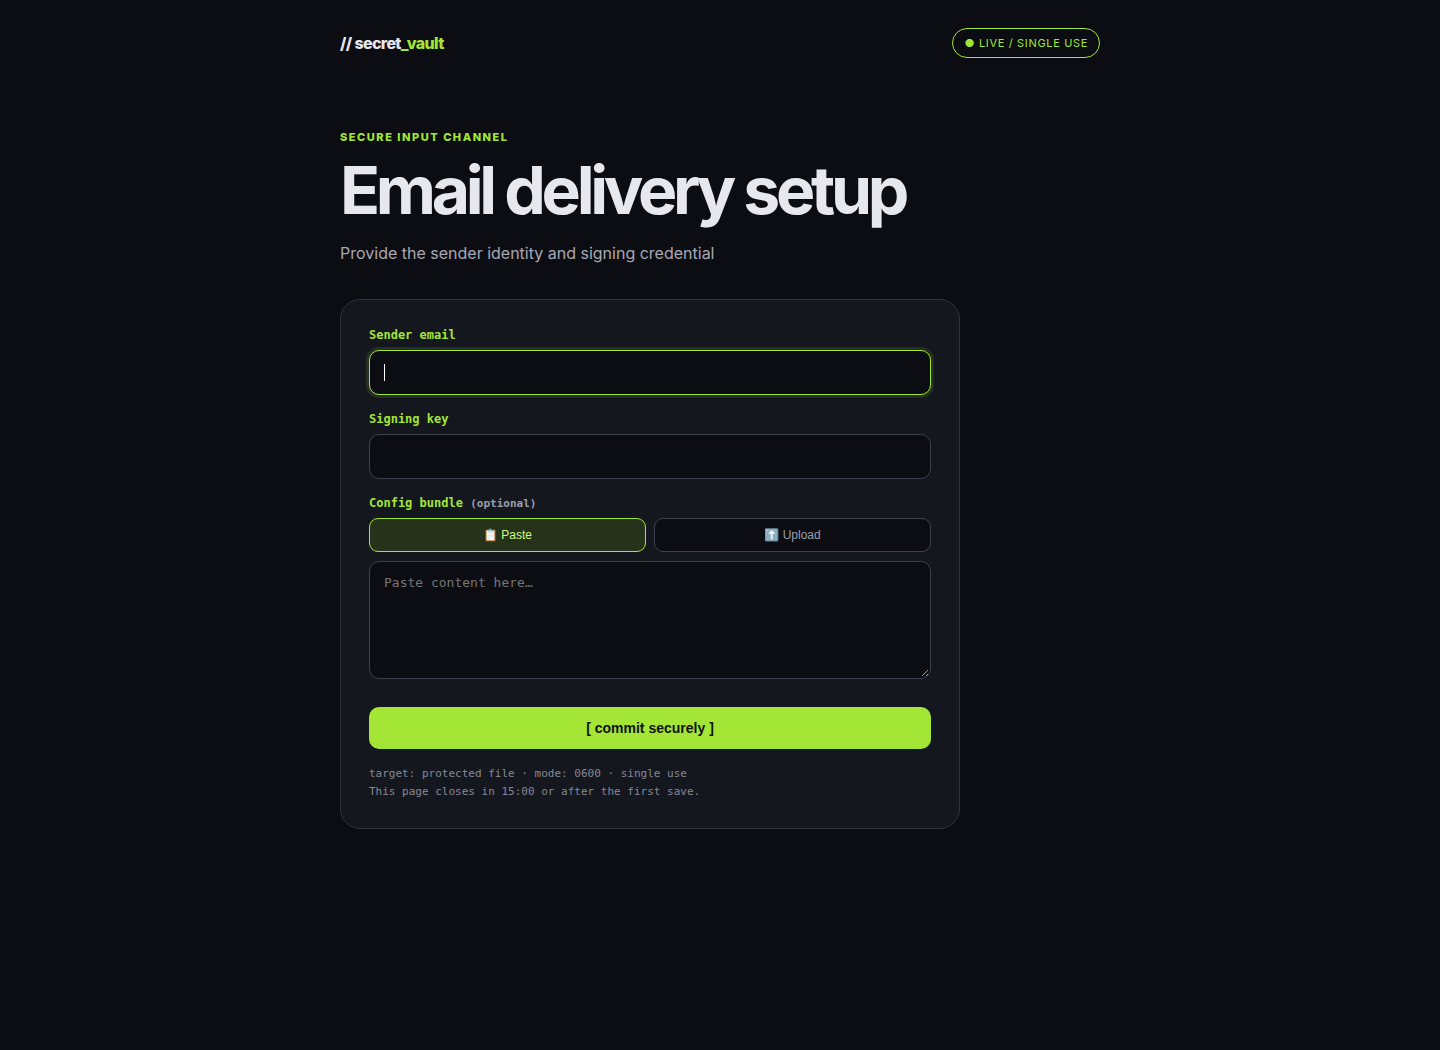
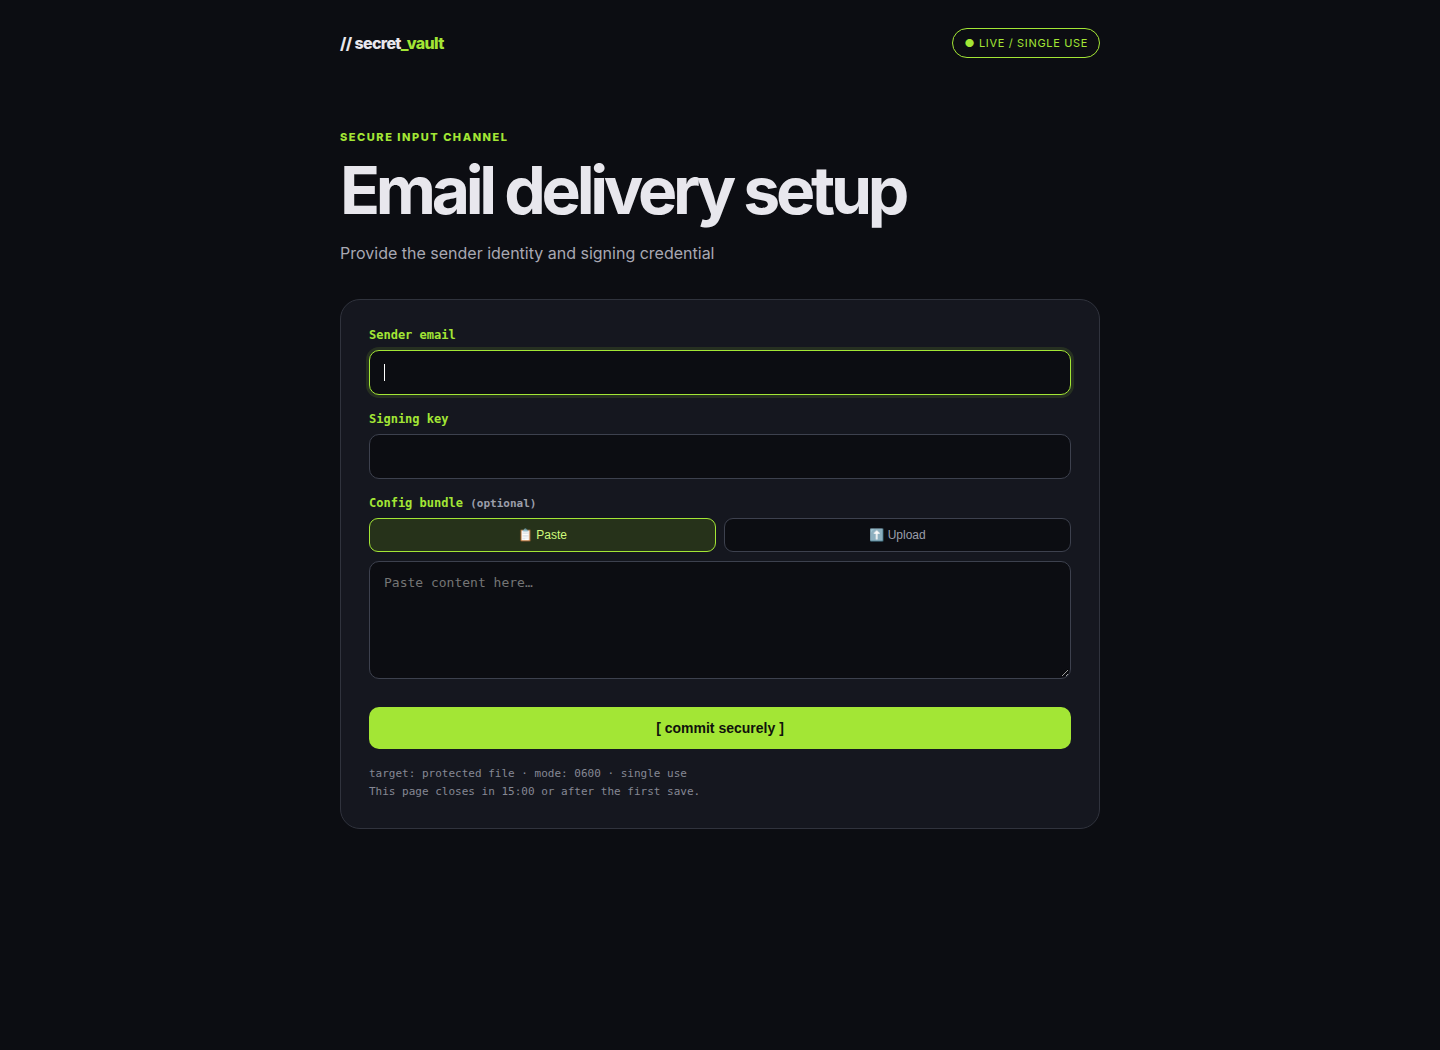
release: v1.1.2 — desktop-width card, desktop demo, new preview card
- form card now spans the header column on desktop (was 620px inside a 760px
  shell, leaving a lopsided gap on the right)
- re-record the demo at 1100x720 desktop and replace the still screenshot with a
  1440x1050 desktop capture; README embeds the GIF at 760px
- link-preview card rebuilt from the desktop still; drop the now-unused 2x GIF
- bump version to 1.1.2

diff --git a/scripts/make_social_preview.py b/scripts/make_social_preview.py
@@ -24,9 +24,7 @@ LIME = (163, 230, 53)
 INTER = "/usr/share/fonts/opentype/inter/"
 MONO = "/usr/share/fonts/truetype/dejavu/DejaVuSansMono.ttf"
 
-shot = Image.open("docs/screenshots/demo@2x.gif")
-shot.seek(14)  # a frame with the form filled in
-shot = shot.convert("RGB")
+shot = Image.open("docs/screenshots/terminal-vault.png").convert("RGB")
 
 # trim page background precisely: keeps only rows/columns that carry content
 bg_probe = shot.getpixel((2, 2))
@@ -74,14 +72,17 @@ d.text((x, H - 68), "python stdlib · MIT · linux / macOS", font=f_small, fill=
 # screenshot on the right, cropped to the form area
 target_h = H - 112
 scale = target_h / shot.height
-shot_r = shot.resize((int(shot.width * scale), target_h), Image.LANCZOS)
+max_w = W - 620
+if shot.width * scale > max_w:
+    scale = max_w / shot.width
+shot_r = shot.resize((int(shot.width * scale), int(shot.height * scale)), Image.LANCZOS)
 card_x = W - shot_r.width - 56
-card_y = (H - target_h) // 2
+card_y = (H - shot_r.height) // 2
 
 # subtle card frame behind the screenshot
 pad = 10
 d.rounded_rectangle(
-    [card_x - pad, card_y - pad, card_x + shot_r.width + pad, card_y + target_h + pad],
+    [card_x - pad, card_y - pad, card_x + shot_r.width + pad, card_y + shot_r.height + pad],
     radius=18, fill=CARD, outline=BORDER, width=1,
 )
 mask = Image.new("L", shot_r.size, 0)

diff --git a/scripts/secret_form.py b/scripts/secret_form.py
@@ -79,7 +79,7 @@ import threading
 import time
 import urllib.parse
 
-__version__ = "1.1.1"
+__version__ = "1.1.2"
 EXPIRY_GRACE_SECONDS = 5  # keep the socket up briefly so a late visit sees the expired page
 DEF_ENV = os.path.expanduser("~/.config/secret-vault/secrets.env")
 ALLOWED_TYPES = {"text", "password", "textarea", "code", "file", "dual"}
@@ -229,7 +229,7 @@ def build_page(spec, token, multipart, expires_seconds=None):
  .kicker{{font-size:11px;text-transform:uppercase;letter-spacing:.14em;font-weight:800;margin-bottom:14px}}
  h1{{font-size:clamp(38px,7vw,66px);line-height:.98;letter-spacing:-.065em;margin:0 0 18px;max-width:720px}}
  p.sub{{font-size:16px;line-height:1.55;color:#a8a8b3;margin:0 0 34px;max-width:590px}}
- .card{{background:#15171f;padding:28px;border:1px solid #30333d;border-radius:20px;width:620px;max-width:100%}}
+ .card{{background:#15171f;padding:28px;border:1px solid #30333d;border-radius:20px;width:100%;max-width:100%}}
  label{{display:block;font:650 12px ui-monospace,SFMono-Regular,Menlo,Consolas,monospace;margin:17px 0 8px;color:#a3e635}}
  label:first-child{{margin-top:0}} .opt{{color:#9b9eaa;font-size:11px}}
  input,textarea{{width:100%;padding:13px 14px;border-radius:10px;border:1px solid #3d414e;background:#0c0d12;color:#fff;font-size:14px;font-family:inherit;outline:none}}

diff --git a/README.md b/README.md
@@ -12,10 +12,10 @@
 ![platform](https://img.shields.io/badge/platform-linux%20%7C%20macOS-lightgrey)
 ![license](https://img.shields.io/badge/license-MIT-blue)
 
-See it working — type a key, commit, the page closes itself:
+See it working (desktop view) — type a key, commit, the page closes itself:
 
 <p align="center">
-  <img src="docs/screenshots/demo.gif" width="300" alt="Demo: typing a key into the form, submitting, and the page closing itself">
+  <img src="docs/screenshots/demo.gif" width="760" alt="Demo: typing a key into the form, submitting, and the page closing itself">
 </p>
 
 ## 📖 Overview

diff --git a/CHANGELOG.md b/CHANGELOG.md
@@ -2,6 +2,18 @@
 
 All notable changes to Terminal Vault are documented here.
 
+## [1.1.2] - 2026-10-22
+
+### Changed
+
+- On desktop widths the form card now spans the same column as the header and title, instead of
+  sitting 140px narrower than the header and leaving a lopsided gap on the right.
+
+### Documentation
+
+- The demo GIF and the README screenshot are both desktop captures now (1100x720 and 1440x1050)
+  rather than a phone-shaped viewport, plus a regenerated link-preview card built from that still.
+
 ## [1.1.1] - 2026-10-22
 
 ### Added
